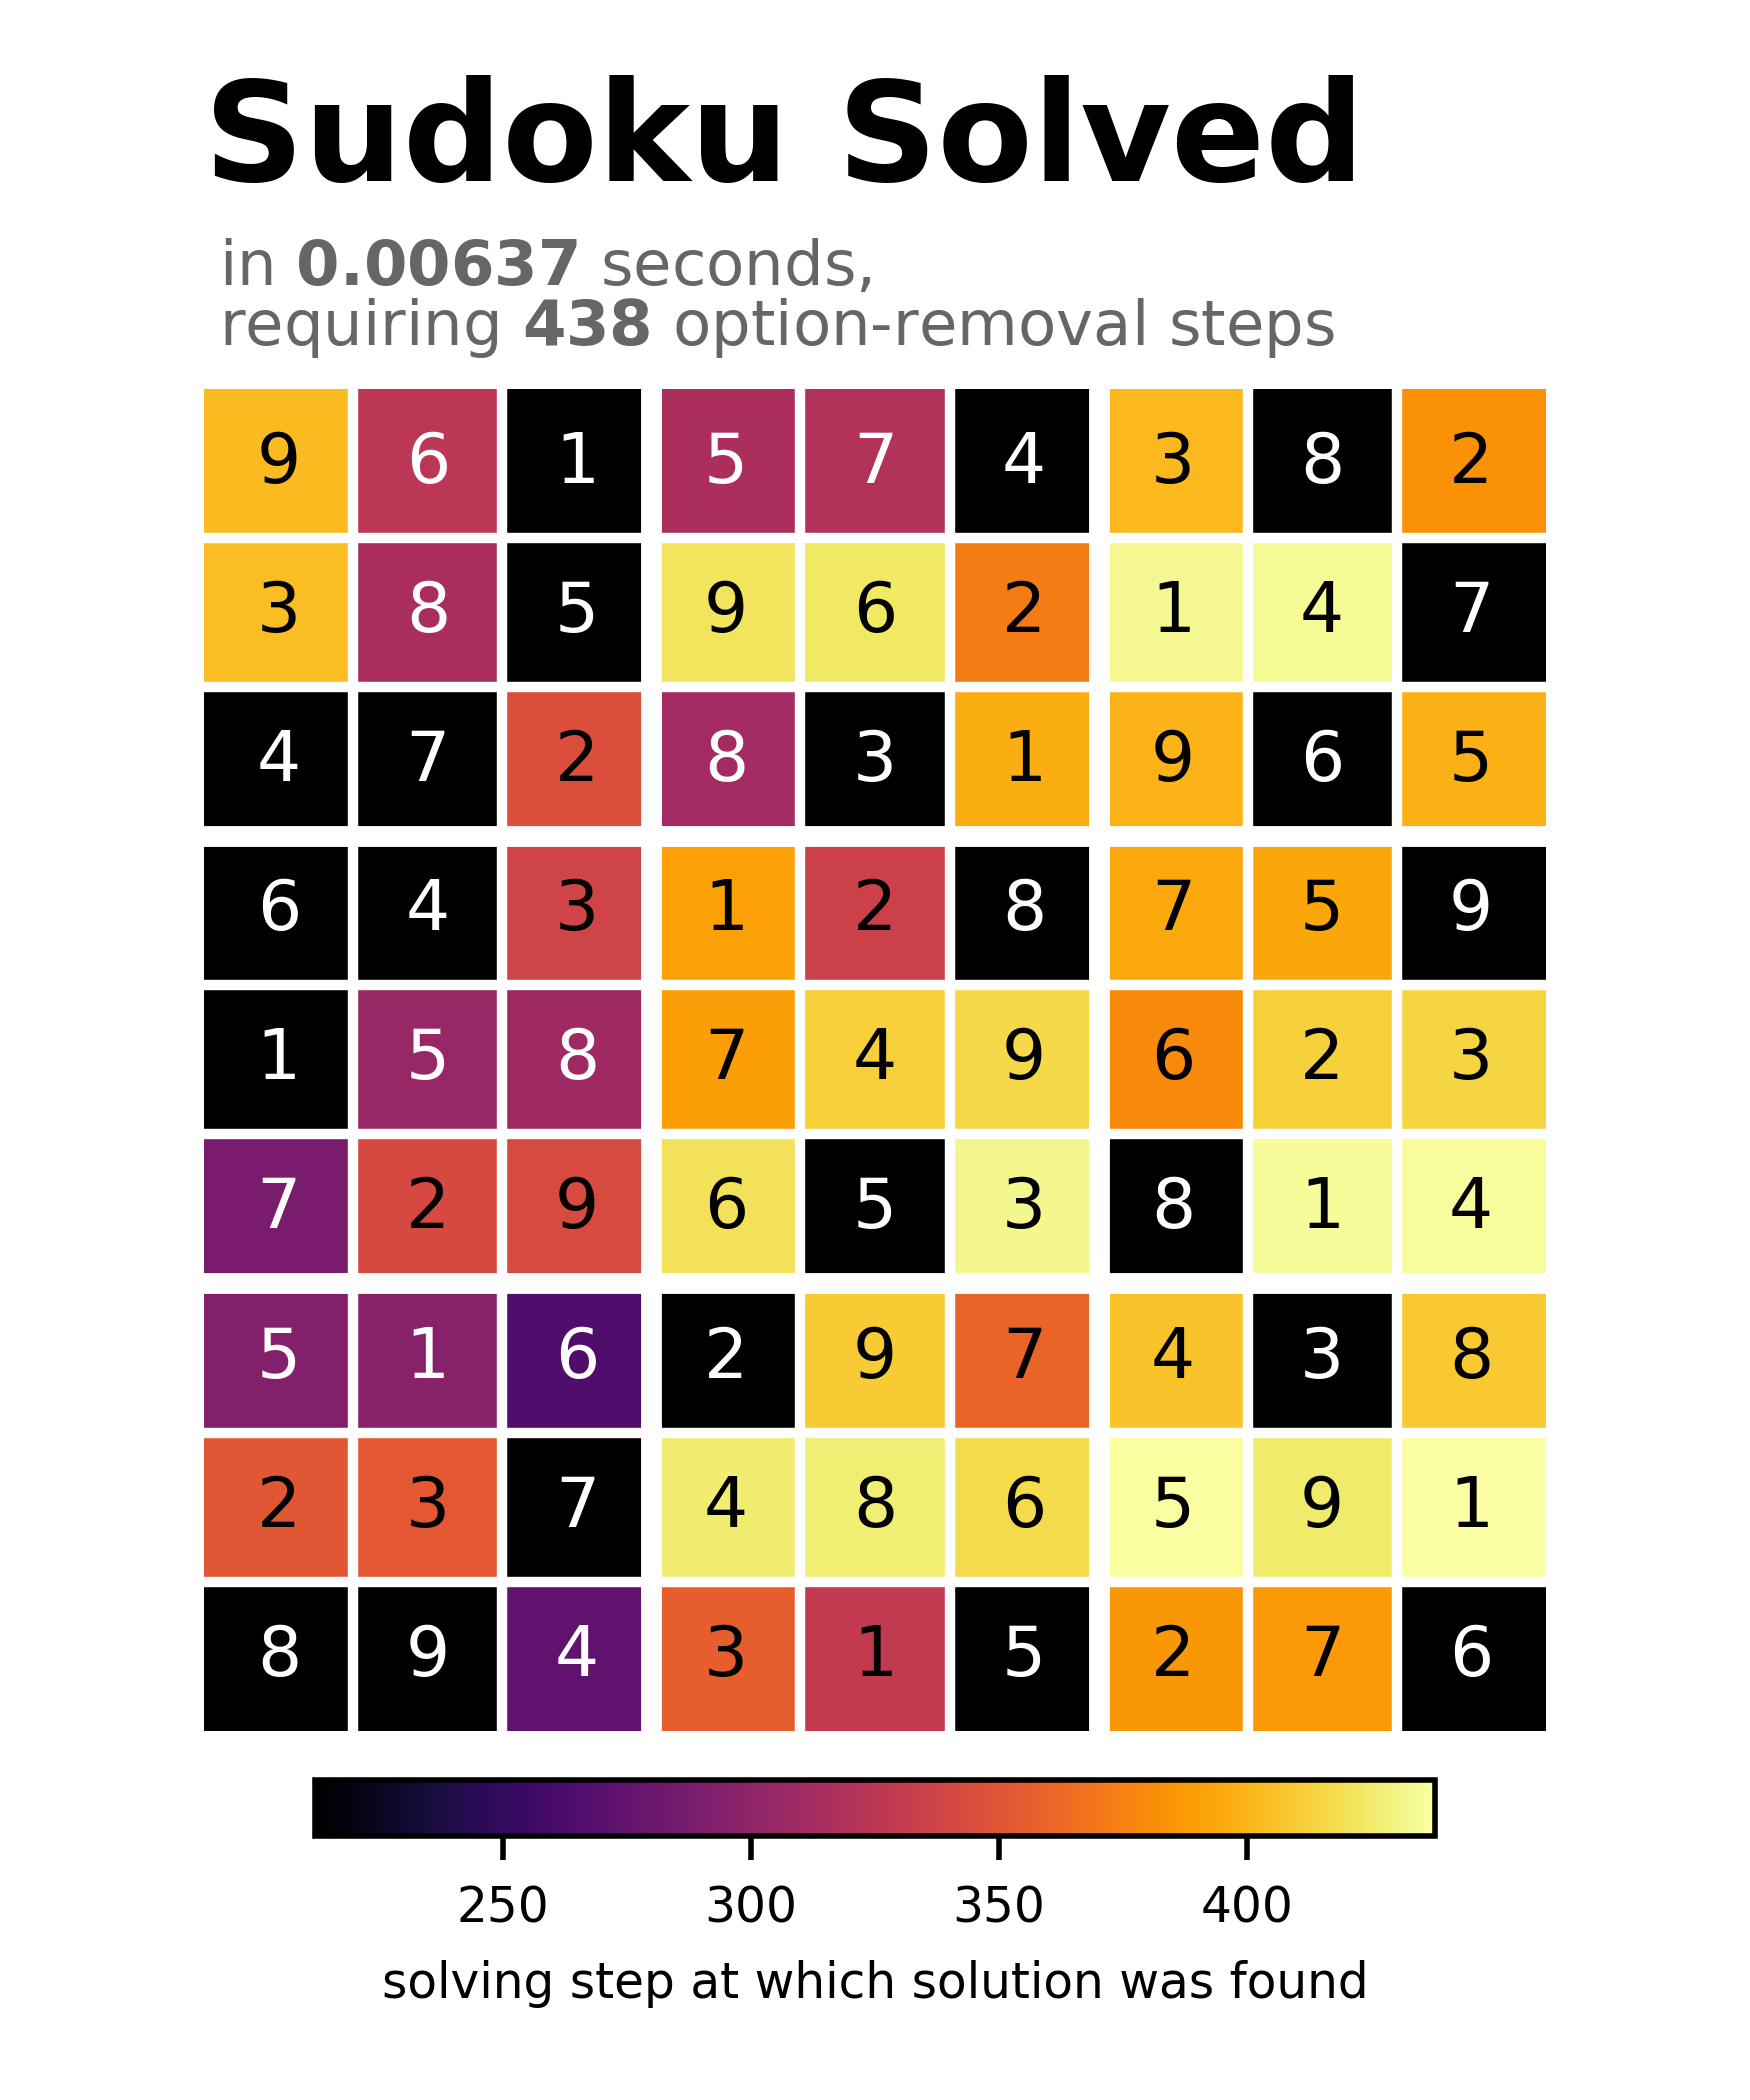
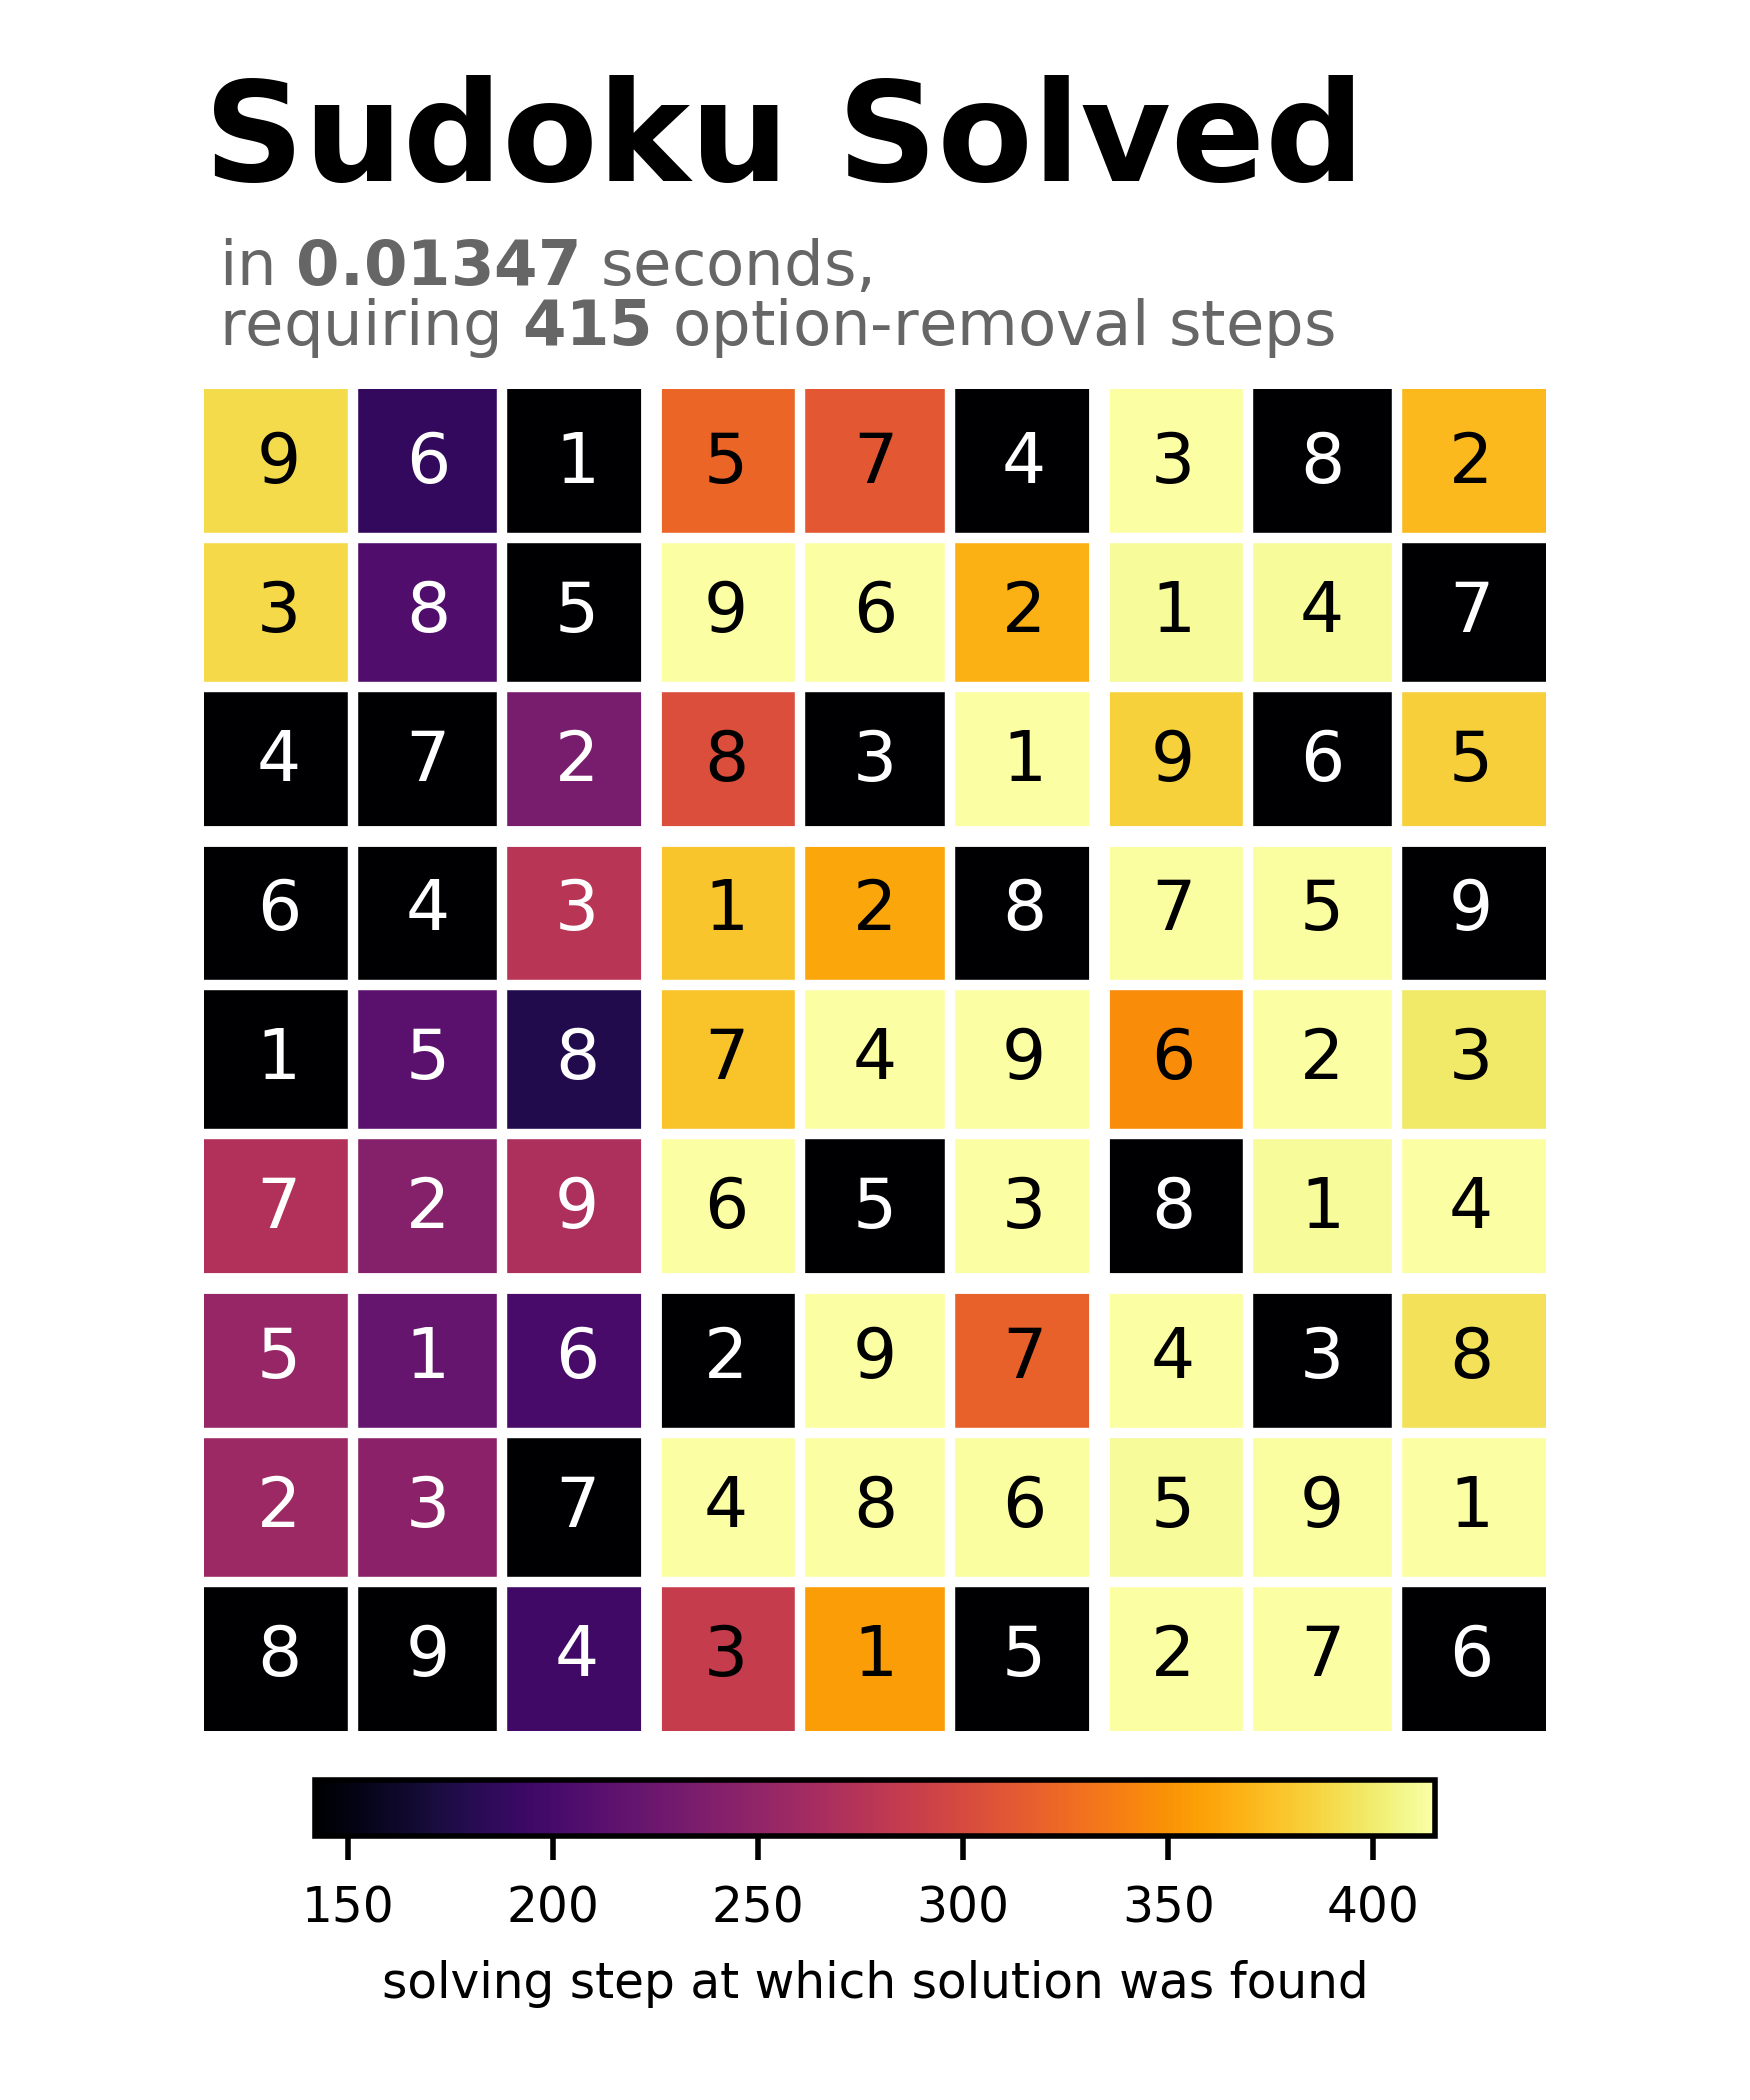
Reworked the solver generation function addressing issue #2.
The generate_solver function now takes instances of objects that inherit from FmtSolvingMethod as arguments but not the classes themselves. Moreover, the RemoveAndUpdate class was reworked by adding the _remove_option_from_neighbors method which makes NTilesNOptions(1) deprecate.

diff --git a/src/sudoku/solvingmethods.py b/src/sudoku/solvingmethods.py
@@ -107,23 +107,9 @@ class FmtParamSolvingMethod(FmtSolvingMethod):
             raise ValueError(f"parameter of {self.__class__.__name__} solving method must be larger or equal to {self._N_MIN} but {param} is given")
 
 
-# To Do
-# Implement CounterUpdateChain and RemoveNeighboringOption as separate solving
-# methods that get called whenever another solving method is successfull. This
-# should enable us to speed up the solver a little bit by removing the 
-# NTilesNOptions(1) method from the solving method order. This could possibly 
-# also lead to a redesign of the RemoveAndUpdate launch method.
-
-class CounterUpdateChain(FmtSolvingBase):
-    pass
-
-class RemoveNeighboringOption(FmtSolvingBase):
-    pass
-
-
 
 class RemoveAndUpdate(FmtSolvingBase):
-    def _counter_update_chain(self, S: Sudoku, tile_index: int, remove_options: set):
+    def _one_tile_with_option_left(self, S: Sudoku, tile_index: int, remove_options: set):
         tile = S.tiles[tile_index]
         for kind in CONTAINER_TYPES:
             counter = S.counters[kind][tile.pos[kind]]
@@ -138,10 +124,44 @@ class RemoveAndUpdate(FmtSolvingBase):
                         f"tile {where_only_one_left} is the only tile in {CONTAINER_NAMES[kind]} {tile.pos[kind]+1} with {o} as option",
                         True)
                     
-                    if not self._remove(S, where_only_one_left, remove_opts):
-                        return False
+                    self.launch(S, where_only_one_left, remove_opts)
+                
+                if S.violated:
+                    return False
+
+        return True
+
+    def _remove_option_from_neighbors(self, S: Sudoku, tile_index: int):
+        tile = S.tiles[tile_index]
+        for kind in CONTAINER_TYPES:
+            container = S.containers[kind][tile.pos[kind]]
+            for tidx in set(container)-{tile_index}:
+                
+                self._stepper.set_consideration(
+                    {tile_index},
+                    tile.options,
+                    f"value of tile {tile_index} has been fixed to {tile.options}, thus removing this option from tile {tidx}",
+                    False)
+
+                self.launch(S, tidx, tile.options)
+                
+                if S.violated:
+                    return False
         
         return True
+
+    def _update_chain_removal(self, S: Sudoku, tile_index: int, remove_options: set):
+        tile = S.tiles[tile_index]
+        if not self._one_tile_with_option_left(S, tile_index, remove_options):
+            return False
+
+        if tile.n_options == 1:
+            tile.solved_at = self._stepper._counter
+            if not self._remove_option_from_neighbors(S, tile_index):
+                return False
+
+        return True
+
 
     def _update_counter(self, S: Sudoku, tile_index: int, remove_options: set):
         tile = S.tiles[tile_index]
@@ -152,36 +172,33 @@ class RemoveAndUpdate(FmtSolvingBase):
                 if len(counter[o-1]) == 0:
                     S.violated = True
                     return False
+        
+        return True
+    
+    def _update_and_check_violations(self, S: Sudoku, tile_index: int, remove_options: set):
+        if S.tiles[tile_index].n_options > 0:
+            if self._update_counter(S, tile_index, remove_options):
+                return True
+        
+        S.violated = True
+        return False
 
-        return self._counter_update_chain(S, tile_index, remove_options)
- 
-    def _remove(self, S: Sudoku, where: int, which: set) -> bool:
+    def _remove_and_check_violations(self, S: Sudoku, where: int, which: set) -> bool:
+        self._stepper.show_step(S, {where}, which)
+        S.tiles[where].options -= which
+        return self._update_and_check_violations(S, where, which)
+
+
+    def launch(self, S: Sudoku, where: int, which: set) -> bool:
         tile = S.tiles[where]
-        if (diff:=tile.options & which):
-            
-            self._stepper.show_step(S, {where}, which)
-
-            tile.options -= which
-            if tile.n_options == 1:
-                tile.solved_at = self._stepper._counter
-            
-            if tile.n_options > 0:
-                return self._update_counter(S, where, diff)
+        if (diff:=tile.options&which):
+            if self._remove_and_check_violations(S, where, diff):
+                return self._update_chain_removal(S, where, diff)
             else:
-                S.violated = True
                 return False
         else:
             return False
 
-    def launch(self, S: Sudoku, where: int, which: set) -> bool:
-        # if self._remove(S, where, which):
-        #     if S.tiles[where].n_options == 1:
-        #         return self._remove_from_neighbors(S, where)
-        #     else:
-        #         return True
-        # else:
-        #     return False
-        return self._remove(S, where, which)
 
 class NTilesNOptions(FmtParamSolvingMethod):
     _N_MIN = 1

diff --git a/use/example.py b/use/example.py
@@ -8,13 +8,13 @@ import numpy as np
 from matplotlib import pyplot as plt
 
 def solve(s: Sudoku) -> Sudoku:
-    stepper = InterestingStepFlush(print_grid)
+    stepper = Skipper(print_grid)
     solver = generate_solver(
         [
-            ScaledXWing(2),
-            ScaledXWing(3),
-            NTilesNOptions(2),
+            # NTilesNOptions(2),
             YWing(),
+            ScaledXWing(2),
+            # ScaledXWing(3),
             Bifurcation()
         ], stepper)
     t0 = perf_counter()

diff --git a/src/sudoku/stdSolver.py b/src/sudoku/stdSolver.py
@@ -43,6 +43,7 @@ def generate_solver(method_order: Tuple[FmtSolvingMethod], stepper: StepperBase)
         method.set_advance(init_methods[0])
         method.set_fall_back(init_methods[i+1])
     
+
     # return init_methods[0]
     return init_run
      
